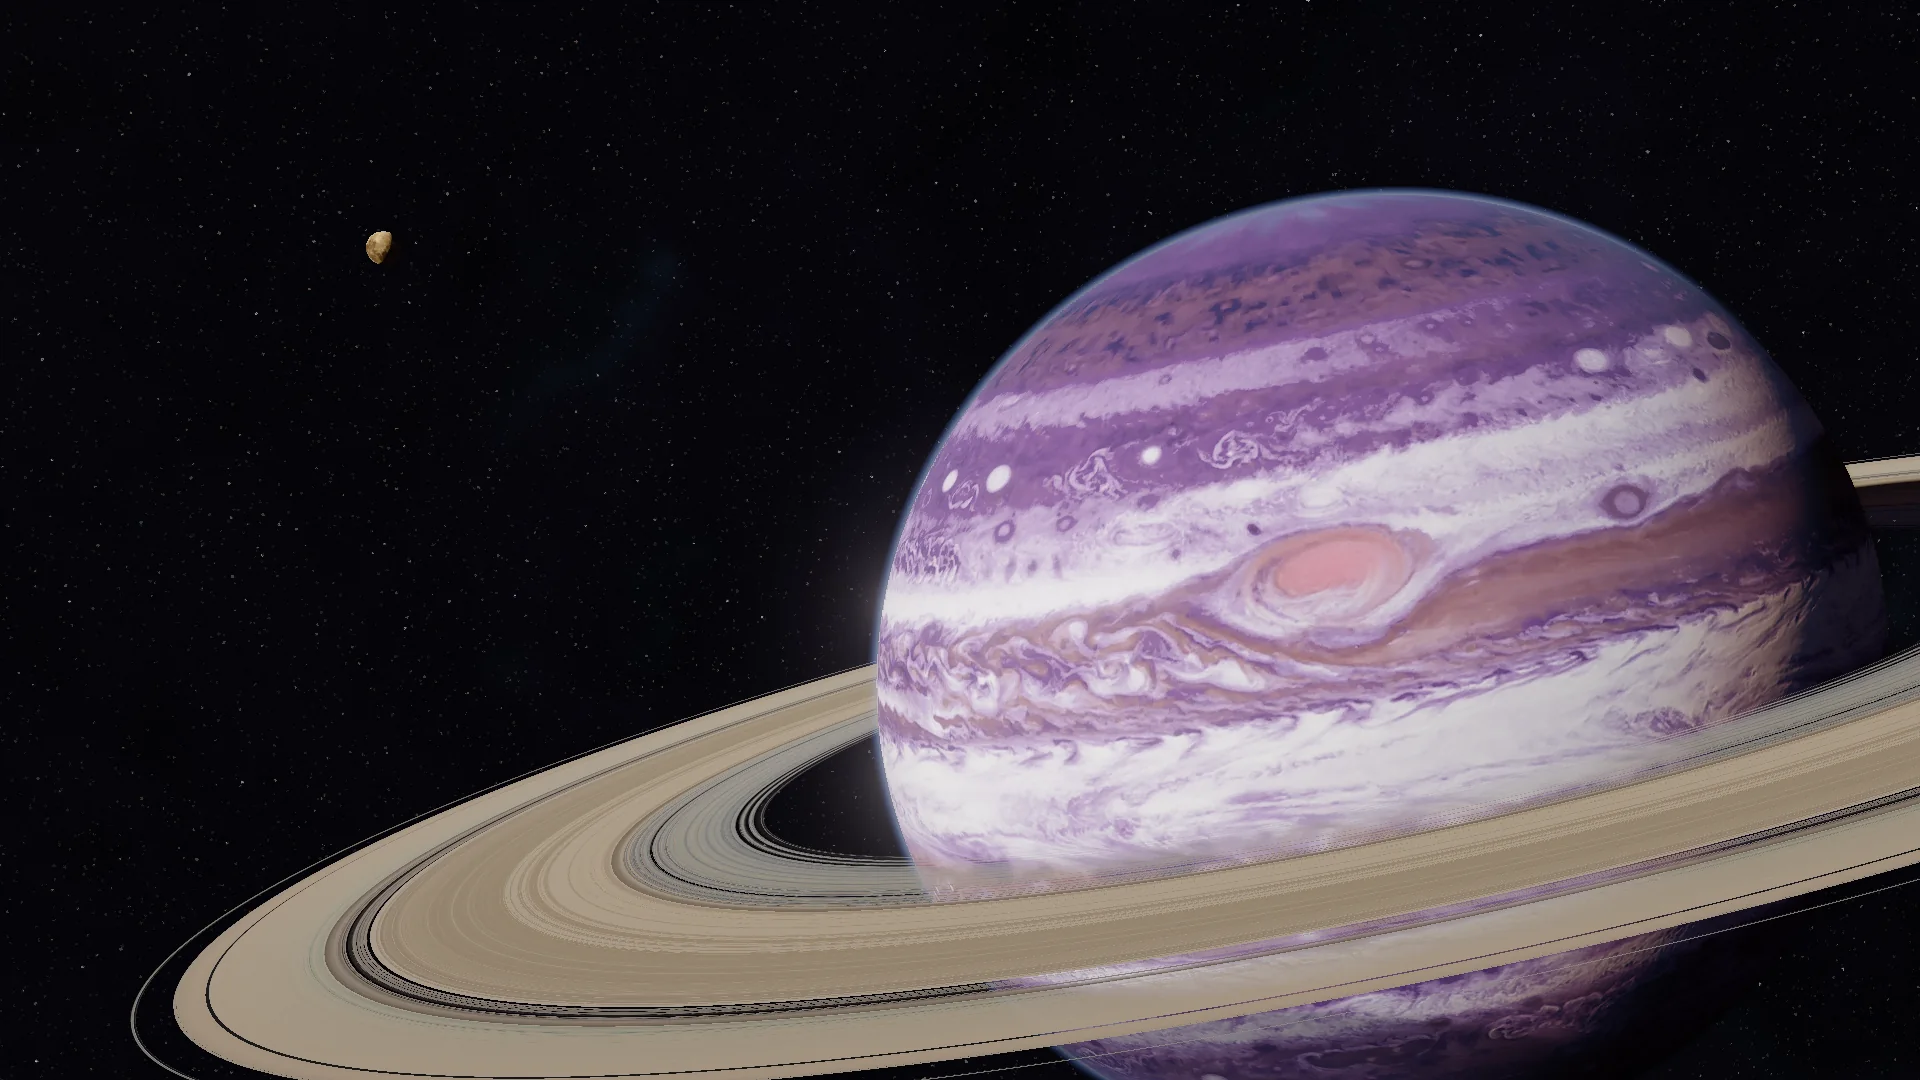
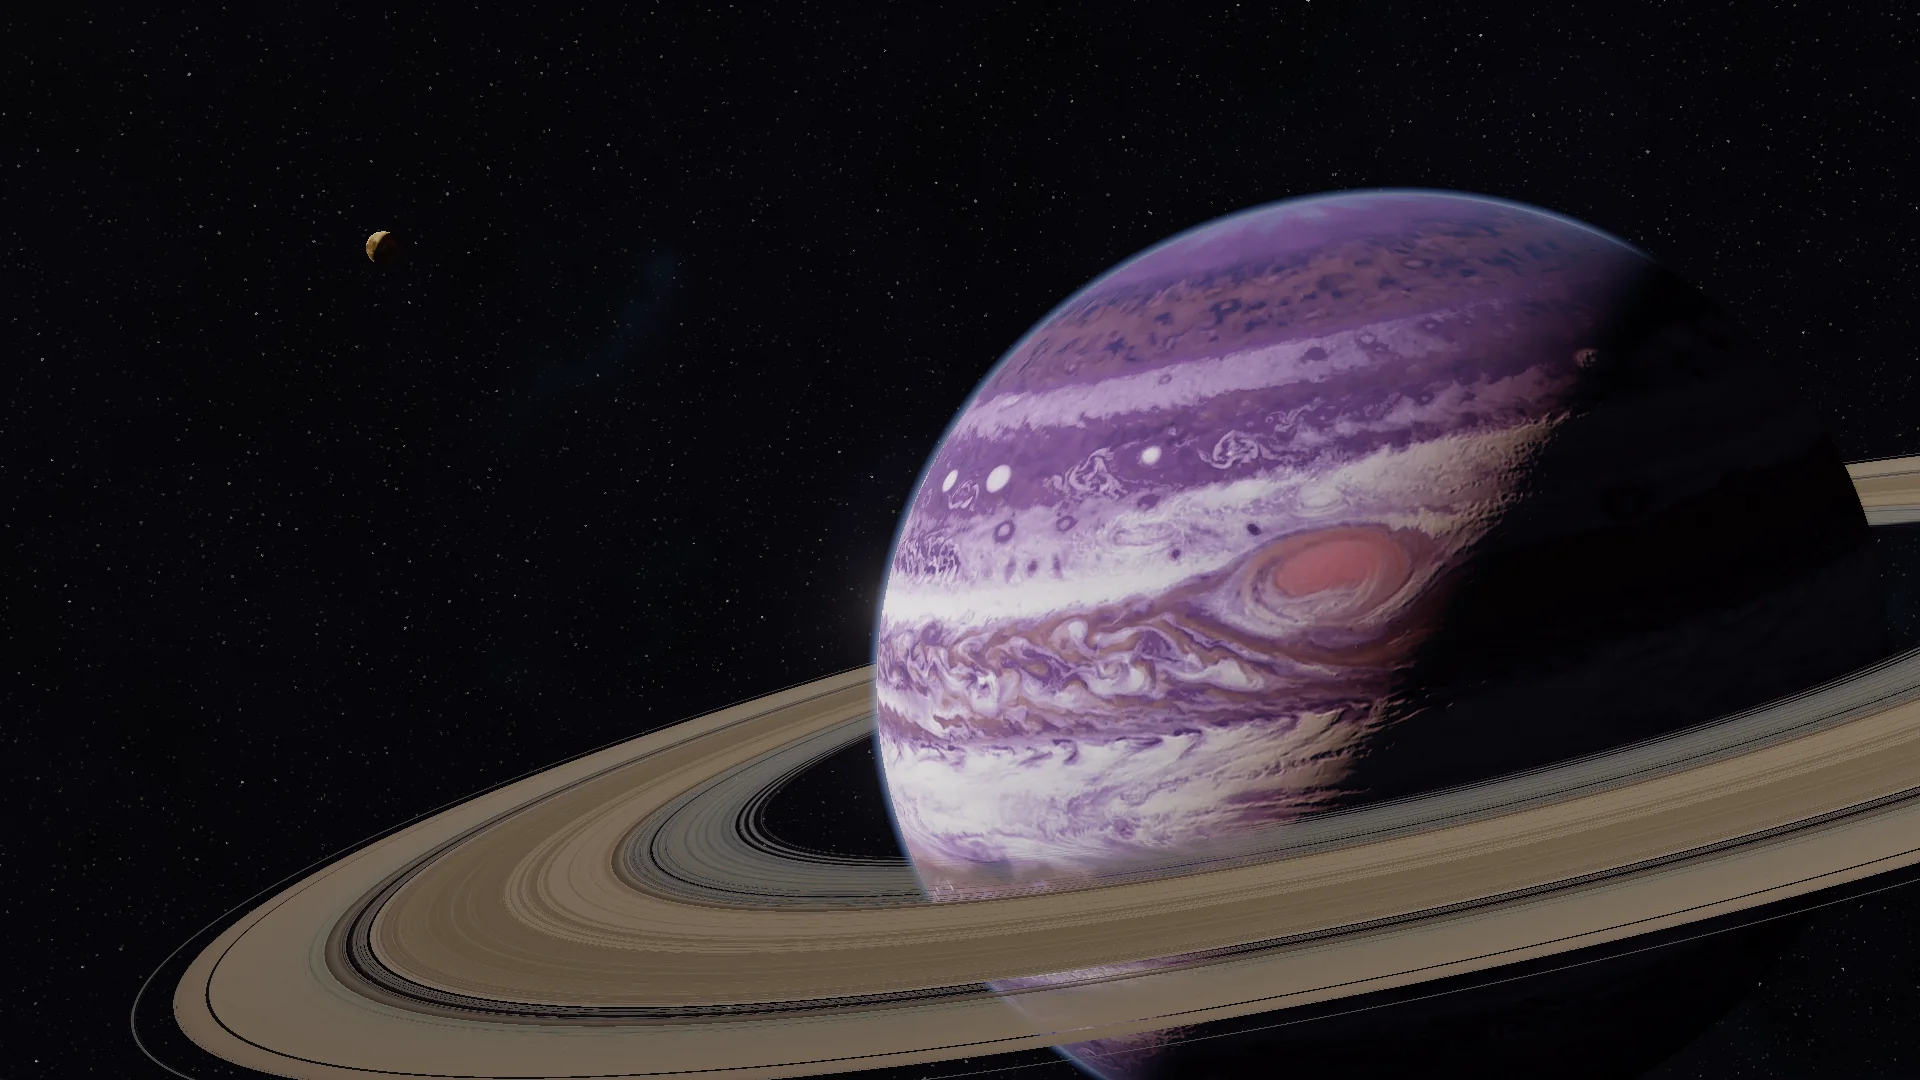
The install: side light, a real terminator, rings that answer the sun
The sun moves round to the side: a crisp terminator through the planet's
right third and a night side that is dark, the haze lit only where the
sun is up over it. The camera starts on the sunny side, so the planet
arrives full and the shadow sweeps across it as the camera swings into
orbit; the moon passes half in shadow. Ring particles now brighten with
the sun behind the eye and dim as they are lit from the side and behind,
the thinnest rings keeping a faint forward glow. The stills are redrawn.

diff --git a/assets/js/world.js b/assets/js/world.js
@@ -173,7 +173,12 @@ vec4 ring(vec3 ro,vec3 rd,out float t){
   float ph=dot(rd,uSun);
   vec3 c;
   /* the lit face: the photograph's colour; the dark face: light let through the thin rings, little through the thick */
-  if(sign(lt.y)==sign(o3.y)) c=rs.rgb*SUNI*0.07*(mu0/(mu0+mu))*(0.85+0.3*(1.0-ph));
+  /* ring particles are rough ice: bright with the sun behind the eye, dimmer as they are lit from the side and
+     behind; the thin rings' fine dust instead glows when the light comes through them */
+  float pa=acos(clamp(-ph,-1.0,1.0));
+  float back=0.12+0.88*exp(-(pa-0.87)*1.4);
+  float fwd=pow(max(ph,0.0),24.0)*pow(1.0-rs.a,3.0)*0.8;
+  if(sign(lt.y)==sign(o3.y)) c=rs.rgb*SUNI*0.07*(mu0/(mu0+mu))*min(back,1.6)+rs.rgb*SUNI*0.05*fwd;
   else { float g=0.6, hg=(1.0-g*g)/pow(1.0+g*g-2.0*g*ph,1.5); c=rs.rgb*SUNI*0.05*(1.0-exp(-tau/mu0))*exp(-tau*0.5/mu)*hg/max(a,0.02); }
   c*=sh;
   /* the planet's own light on the ring's dark side */
@@ -241,13 +246,13 @@ vec3 cloudDeck(vec3 P,vec3 rd){
   vec3 nb=normalize(n-bump*0.0012);
   float mu=dot(n,uSun), ndv=max(dot(n,-rd),0.0);
   /* light through a deep atmosphere: a soft terminator, warming as it goes, darkening to the limb */
-  float wrap=clamp((dot(nb,uSun)+0.08)/1.08,0.0,1.0);
-  float lit=pow(wrap,1.25)*pow(max(ndv,0.02),0.12);
+  float wrap=clamp((dot(nb,uSun)+0.025)/1.025,0.0,1.0);
+  float lit=pow(wrap,1.1)*pow(max(ndv,0.02),0.12);
   vec3 tint=mix(vec3(1.0,0.62,0.42),vec3(1.0),smoothstep(-0.05,0.35,mu));
   float rsh=1.0-0.75*ringAt(P,6.0);
   vec3 c=alb*SUNI*tint*lit*rsh/PI*1.3;
   /* the rings' light on the night side */
-  c+=alb*vec3(0.05,0.04,0.07)*0.25*(1.0-smoothstep(-0.1,0.2,mu));
+  c+=alb*vec3(0.05,0.04,0.07)*0.08*(1.0-smoothstep(-0.1,0.2,mu));
   return c;
 }
 
@@ -272,7 +277,7 @@ void main(){
     vec3 ls=normalize(squash(uSun));
     for(int i=0;i<N;i++){ vec3 x=ro+rd*(t0+ds*(float(i)+0.5)); vec3 qx=squash(x); float h=max(length(qx)-1.0,0.0);
       /* the haze is lit by how high the sun stands over it: it fades through dusk, no hard edge */
-      float up=dot(normalize(qx),ls); float lit=smoothstep(-0.18,0.3,up);
+      float up=dot(normalize(qx),ls); float lit=smoothstep(-0.07,0.2,up);
       float dR=exp(-h/HR)*ds; od+=dR; s+=dR*lit*exp(-BR*od)*(1.0-0.6*ringAt(x,7.0)); }
     float mu=dot(rd,uSun), g=0.7, hg=(1.0-g*g)/pow(1.0+g*g-2.0*g*mu,1.5)*0.08;
     col=col*exp(-BR*od*0.25)+SUNI*s*BR*(0.0597*(1.0+mu*mu)+hg*0.5)*vec3(0.85,0.82,1.0)*0.6;

diff --git a/assets/js/install.js b/assets/js/install.js
@@ -50,7 +50,7 @@ const mv = (A, v) => [A[0] * v[0] + A[1] * v[1] + A[2] * v[2], A[3] * v[0] + A[4
    the planet sits at rest on the screen (its centre from the screen's centre,
    y up, and its radius, in screen heights; the moon's place likewise) */
 export const TUNE = {
-  sun: [-0.72, 0.32, 0.55], tiltZ: 0.38, tiltX: -0.12, sky: [1.2, 0.6],
+  sun: [-0.95, 0.28, -0.08], tiltZ: 0.38, tiltX: -0.12, sky: [1.2, 0.6],
   rest: { az: 0.0, el: 0.3, roll: 0.18, d: 5.2 }, from: { az: -0.8, el: -0.23, roll: 0.3 },
   /* the moon the camera passes on the way in: when (k), how far off the path (planet radii, right and up), how big */
   fly: { k: 0.89, side: [-1.2, -0.8], r: 0.2 },
